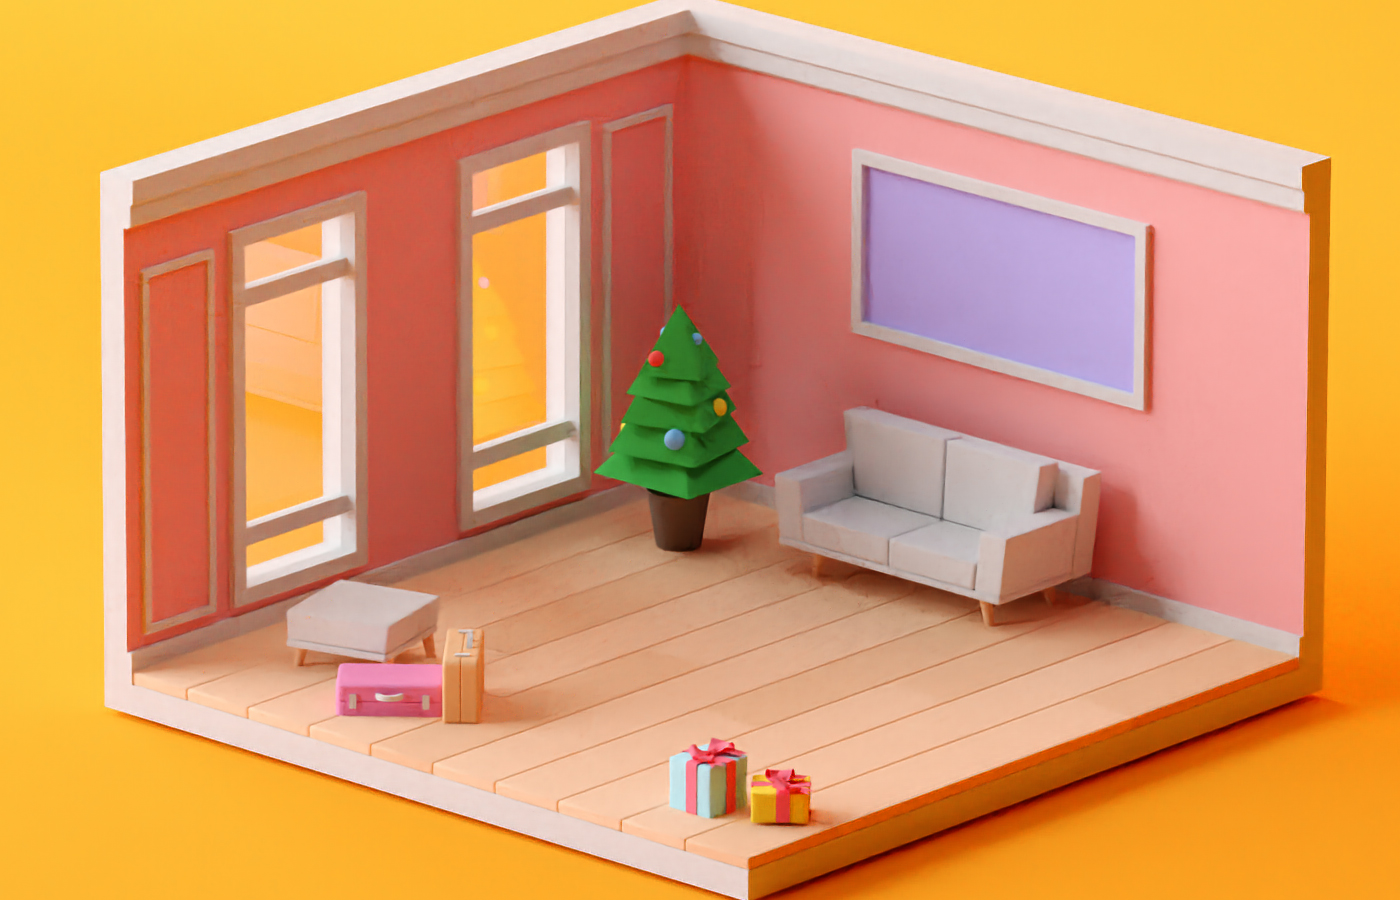
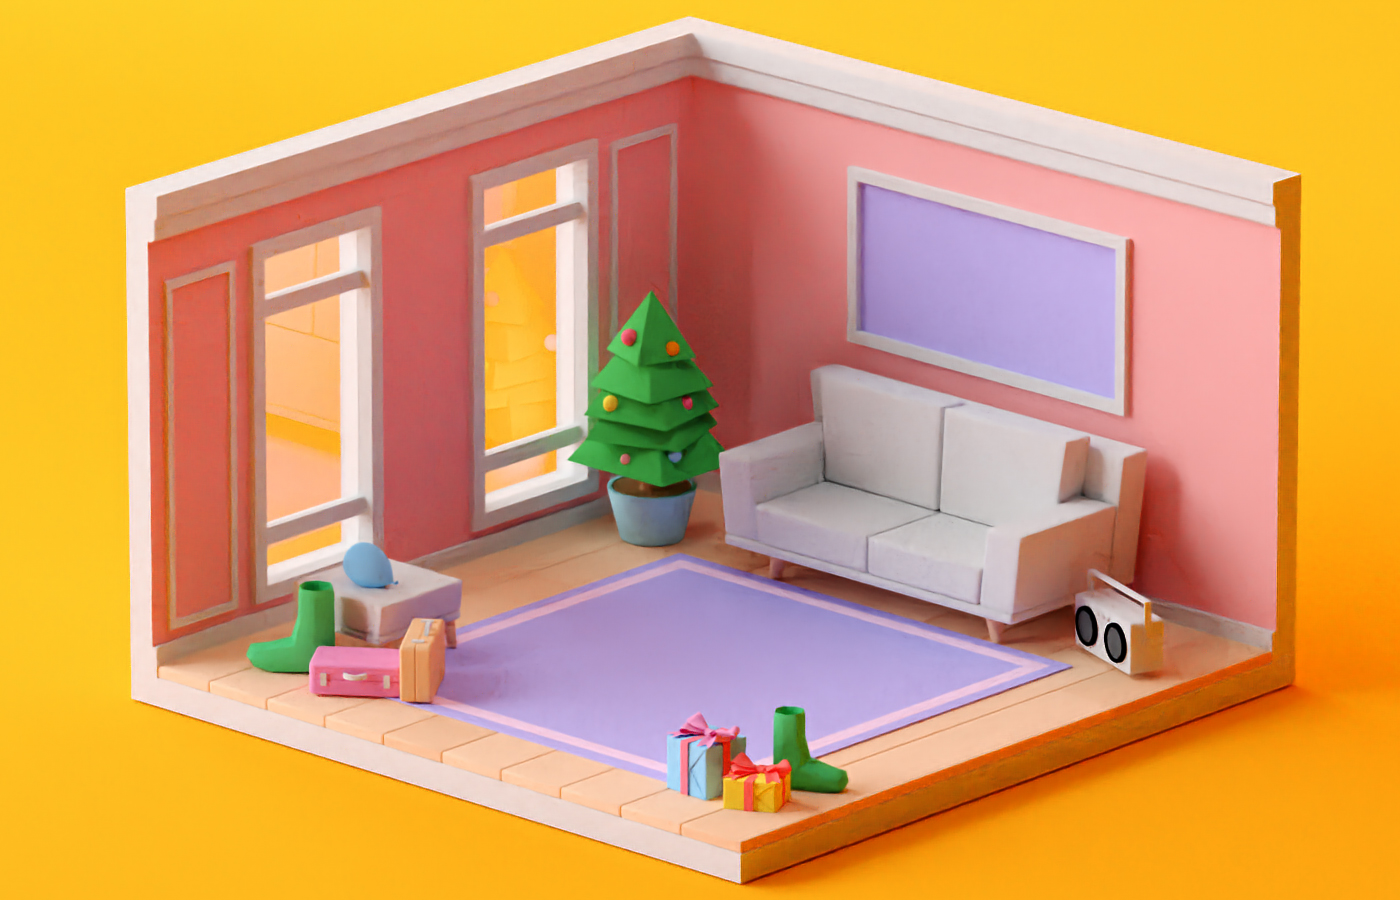
緑靴下を追加

diff --git a/index.html b/index.html
@@ -117,7 +117,7 @@ canvas {
 	display: block;
 	margin: auto;
 	height: 15vw;
-	color: rgb(228, 186, 0);
+	color: #fff;
 	opacity: 0;
 }
 .merry_bg,
@@ -185,7 +185,7 @@ canvas {
                 frames.push(PIXI.Texture.from(`nezu${val}`));
             }
             const nezumi = new PIXI.AnimatedSprite(frames);
-            nezumi.x = app.screen.width / 2.2;
+            nezumi.x = app.screen.width / 2.5;
             nezumi.y = app.screen.height / 1.7;
             nezumi.anchor.set(0.5);
             nezumi.animationSpeed = 0.3;
@@ -195,17 +195,17 @@ canvas {
         }
         function merryChristmas() {
             const tl = new TimelineMax();
-            tl.to(nezumiContainer, 0.3, {y: 0})
-                .to('.word', 0, {opacity: 0})
-                .to('#summer',0.6,{ opacity: 1,ease: Power1.easeInOut}, -0.3)
-                .to('.merry_bg', 0.2, {scaleX: 1})
+            tl.to(nezumiContainer, 0.4, {y: -50})
+                .to('.word', 0, {opacity: 0},-0.4)
+                .to('#summer',0.4,{ opacity: 1,ease: Power1.easeInOut})
+                .to('.merry_bg', 0.2, {scaleX: 1}, 2)
                 .to('.christmas_bg', 0.2, {scaleX: 1})
                 .to('.word', 0.1, {opacity: 1}, "-=0.1")
                 .to('#summer',0.1,{opacity: 0})
-                .to(nezumiContainer, 0.6, {y: 100,ease: Power1.easeInOut})
+                .to(nezumiContainer, 0.6, {y: 50,ease: Power1.easeInOut})
                 .to('.merry_bg', 0.2, {scaleX: 0})
                 .to('.christmas_bg', 0.2, {scaleX: 0})
-                .to('.word',0.2,{opacity: 0}, "-=0.2");
+                .to('.word',0.2,{opacity: 0}, "-=0.3");
                 }
         document.querySelector("#merry").onclick = () => merryChristmas();
     </script>
